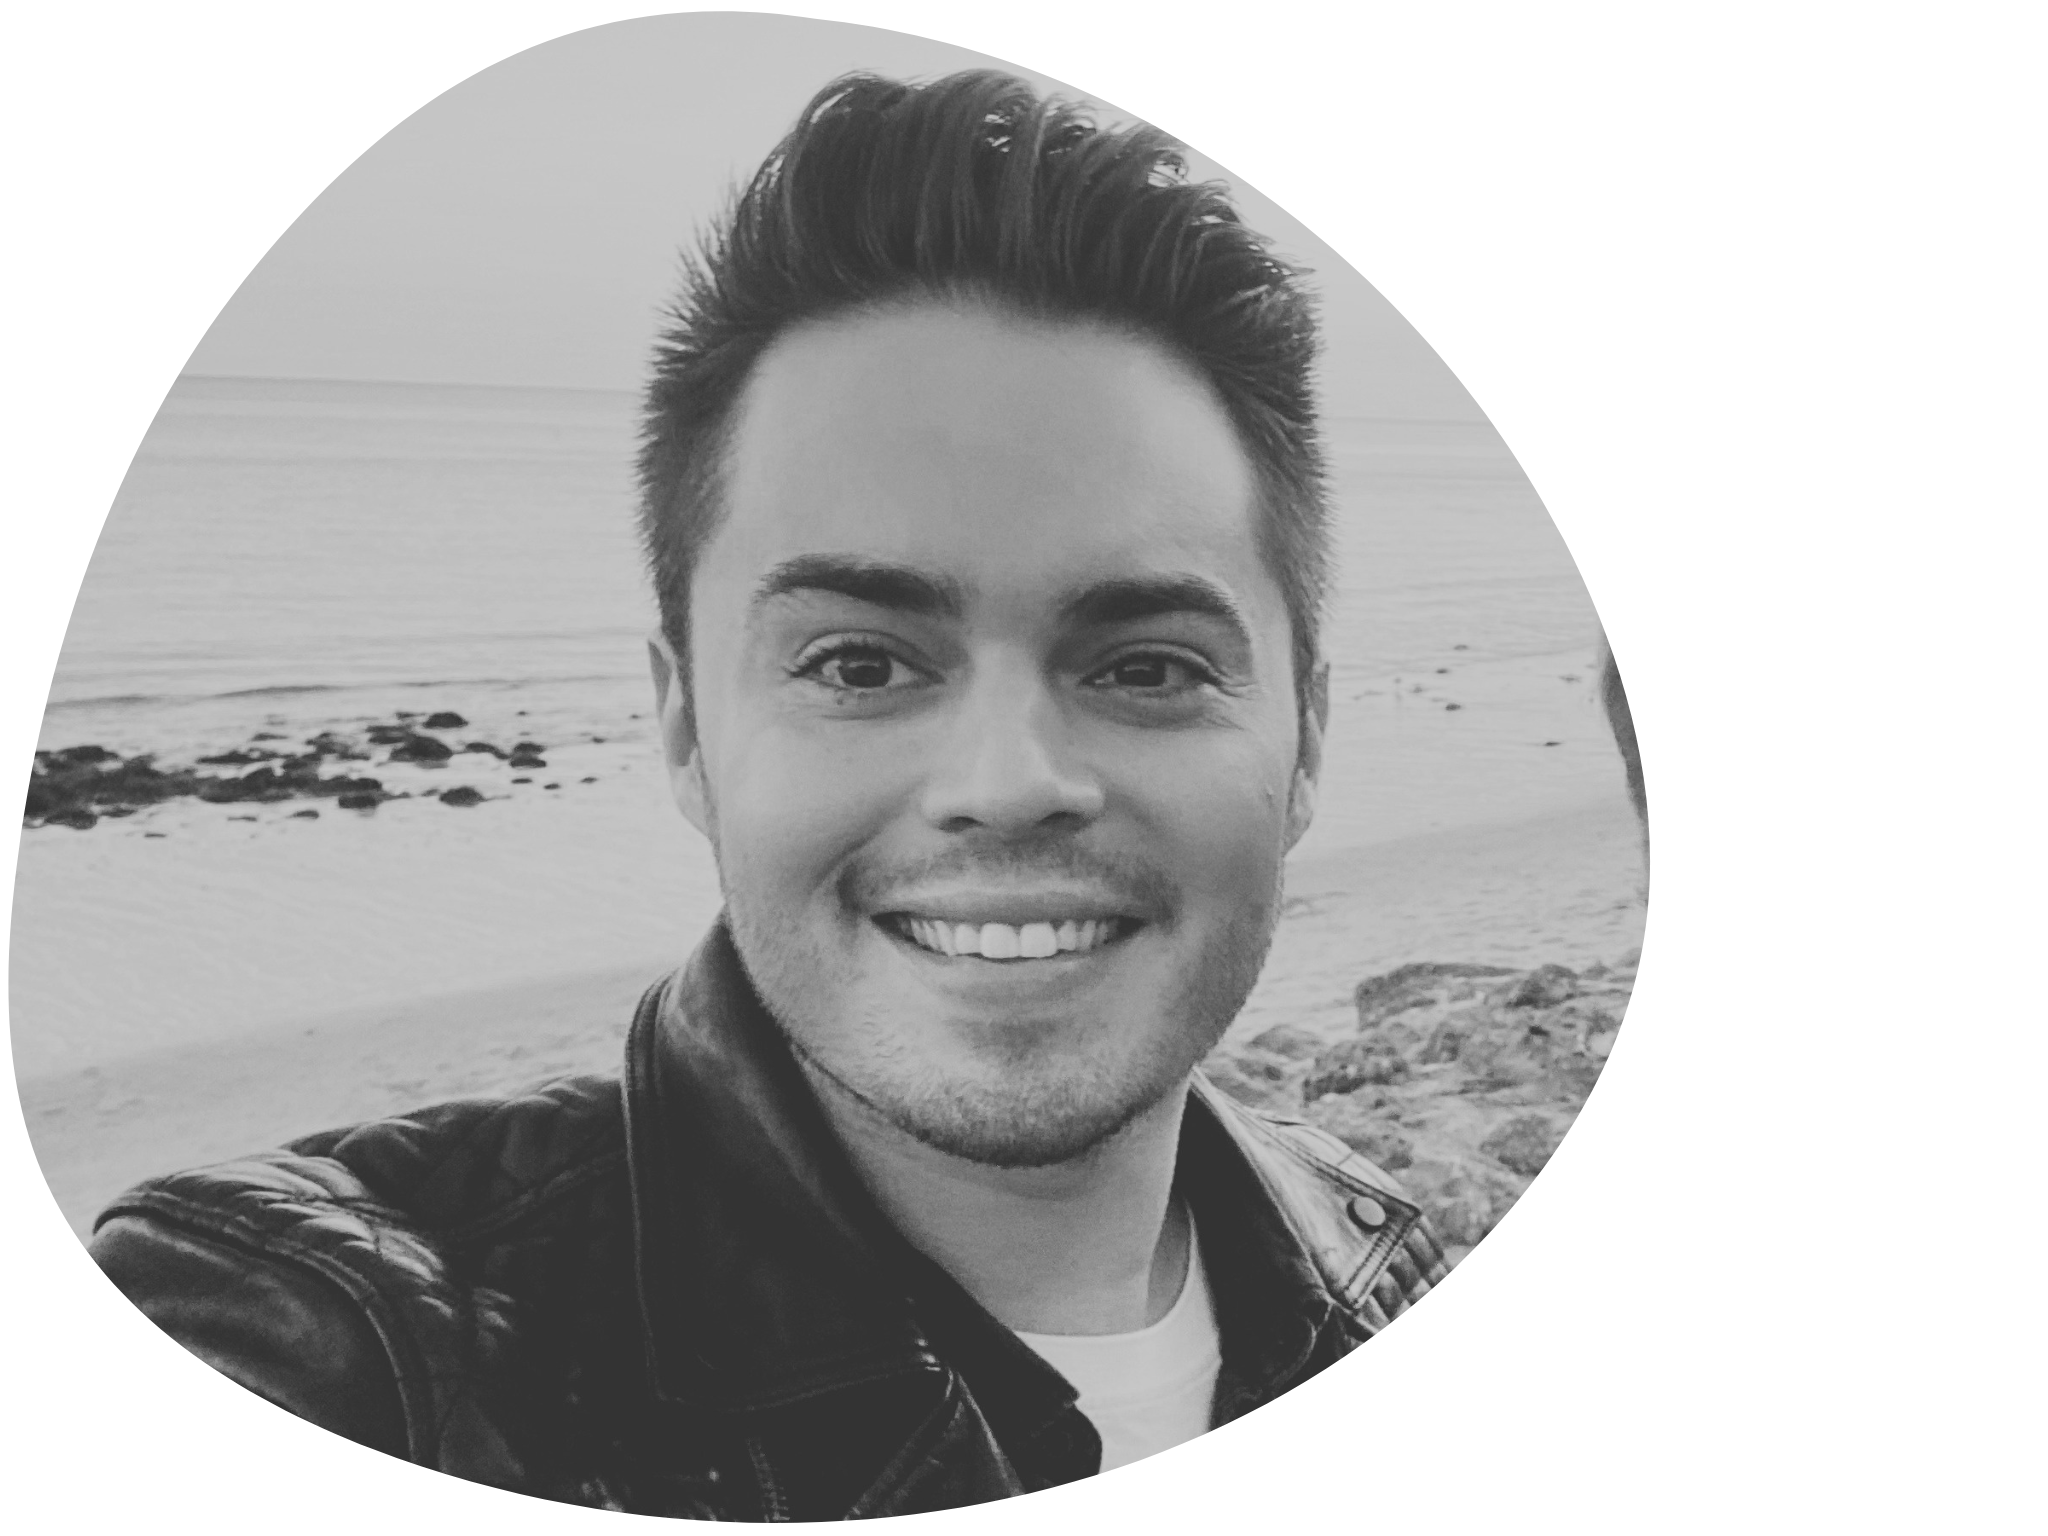
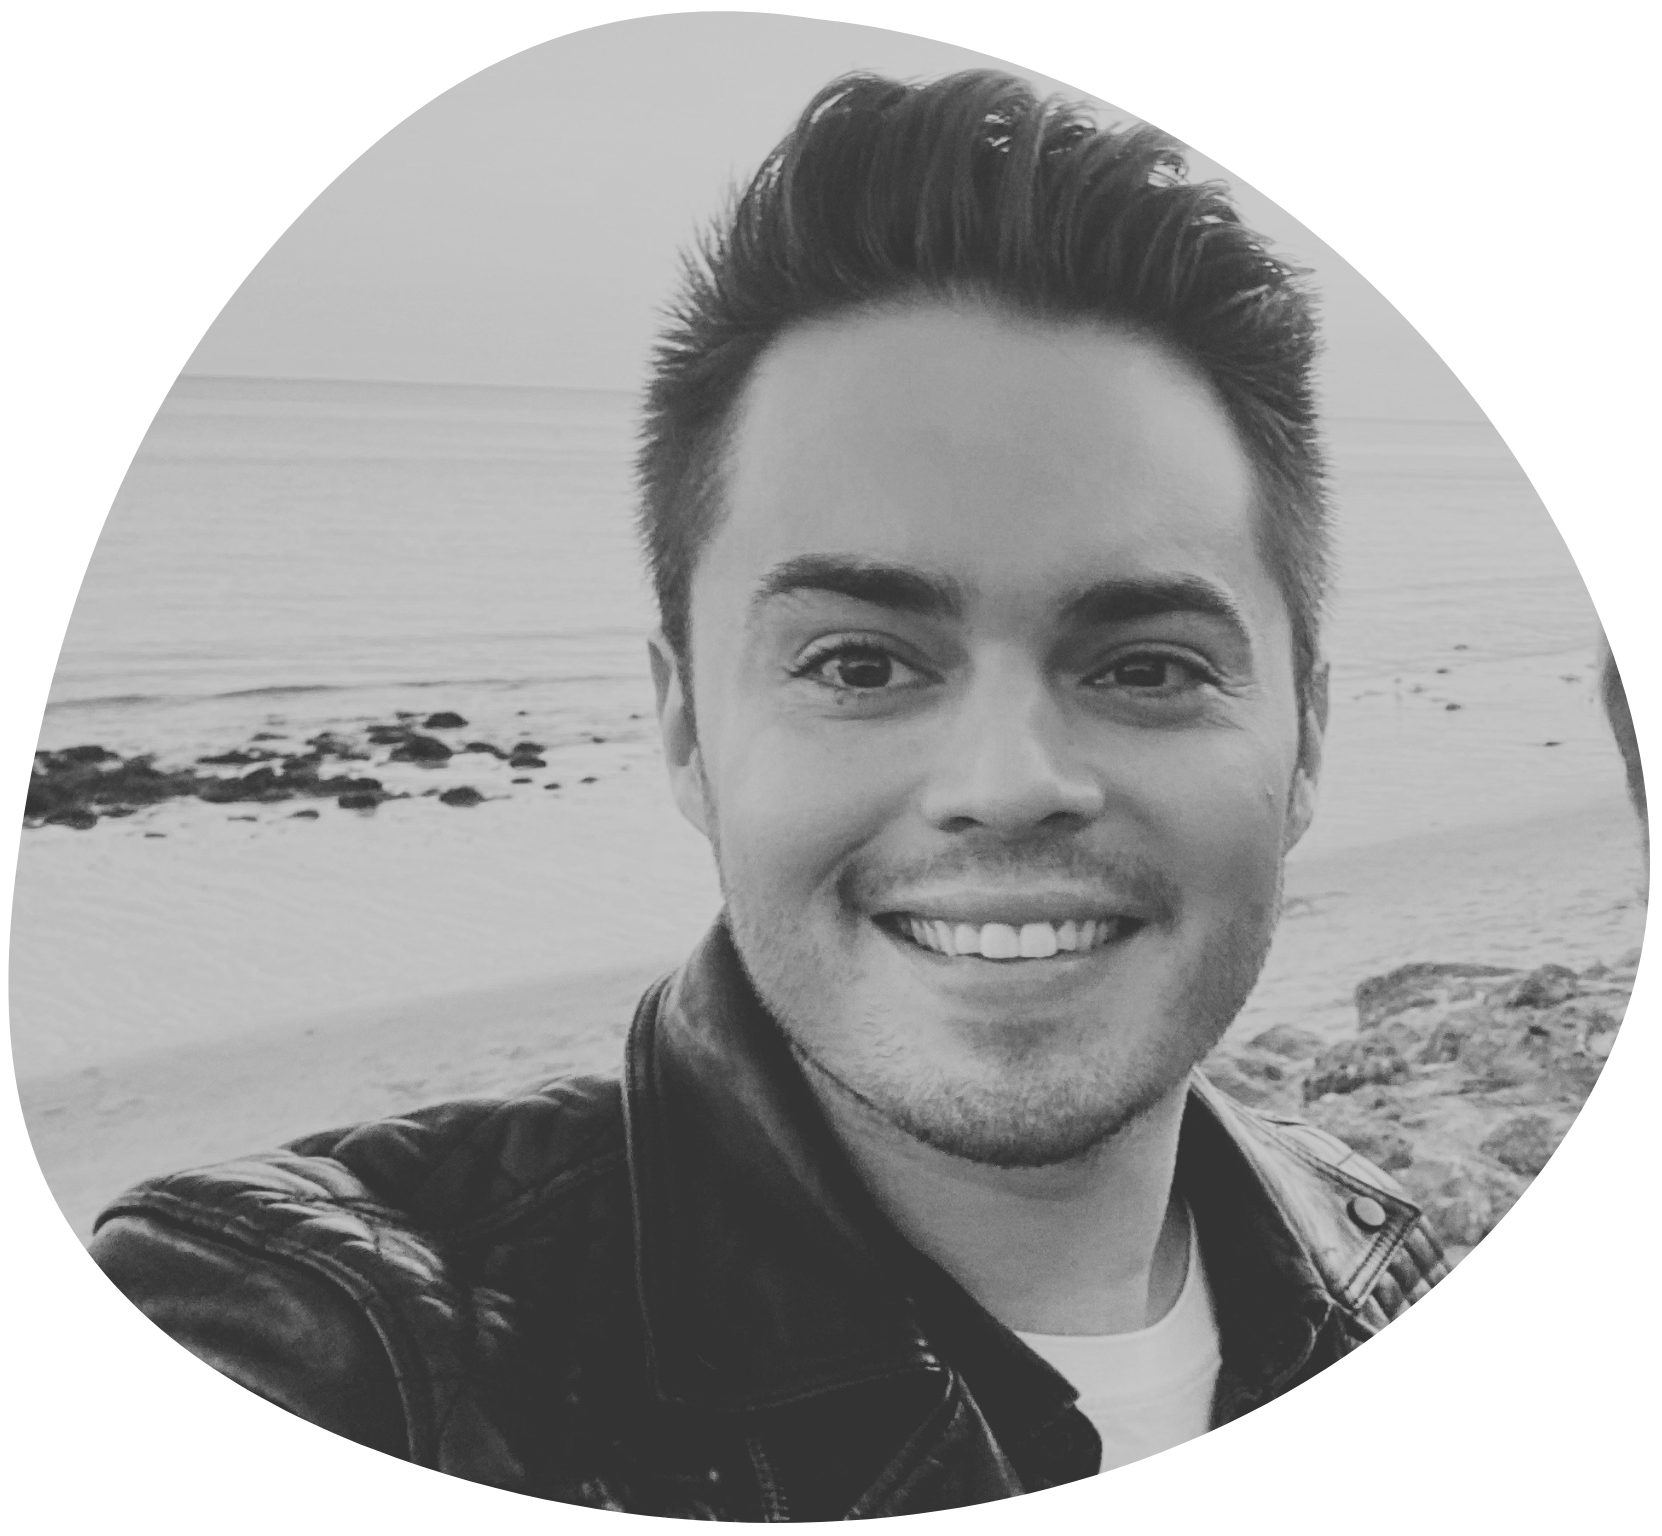
updated home page wording

diff --git a/src/Pages/Home.js b/src/Pages/Home.js
@@ -10,25 +10,28 @@ const Home = () => {
         <h2>TYLER HOFFMAN</h2>
         <h3>SOFTWARE ENGINEER</h3>
         <div className="main-text">
-          Creative software engineer based in <b>West Hollywood</b> <span style={{fontSize:'16pt'}}>☀</span> that found my passion for development when I was just 12 years old.<br /><br />
+          Creative software engineer based in <b>West Hollywood</b> <span style={{fontSize:'16pt'}}>☀</span> who discovered my passion for development at the young age of 12.<br /><br />
+          My success as a freelancer in my early teens solidified my love for problem-solving and self-motivated learning.<br /><br />
+          I am now seeking to <span style={{fontSize:'16pt'}}>🚀</span> launch my career as a software developer and take it to new heights.
+          {/* Creative software engineer based in <b>West Hollywood</b> <span style={{fontSize:'16pt'}}>☀</span> that found my passion for development when I was just 12 years old.<br /><br />
           Becoming a successful freelancer when I was in my early teens revealed my infatuation for problem solving and deep appreciation of self motivated learning.<br /><br />
-          Looking to <span style={{fontSize:'16pt'}}>🚀</span> launch my career as a software developer.
+          Looking to <span style={{fontSize:'16pt'}}>🚀</span> launch my career as a software developer. */}
         </div>
       </div>
     </div>
     <div className="socials">
-      <a href="https://www.github.com/t-hoffman" target="_blank" className="github"><i className="fa-brands fa-github"></i></a>
-      <a href="https://www.linkedin.com/in/tyler-hoffman" target="_blank" className="linked"><i className="fa-brands fa-linkedin"></i></a>
-      <a href="https://www.facebook.com/teehoff/" target="_blank" className="fb"><i className="fa-brands fa-facebook-f"></i></a>
-      <a href="https://www.instagram.com/teehoff/" target="_blank" className="ig"><i className="fa-brands fa-instagram"></i></a>
-      <a href="https://twitter.com/_tylerhoffman" target="_blank" className="twitter"><i className="fa-brands fa-twitter"></i></a>
+      <a href="https://www.github.com/t-hoffman" target="_blank" rel="noreferrer" className="github"><i className="fa-brands fa-github"></i></a>
+      <a href="https://www.linkedin.com/in/tyler-hoffman" target="_blank" rel="noreferrer" className="linked"><i className="fa-brands fa-linkedin"></i></a>
+      <a href="https://www.facebook.com/teehoff/" target="_blank" rel="noreferrer" className="fb"><i className="fa-brands fa-facebook-f"></i></a>
+      <a href="https://www.instagram.com/teehoff/" target="_blank" rel="noreferrer" className="ig"><i className="fa-brands fa-instagram"></i></a>
+      <a href="https://twitter.com/_tylerhoffman" target="_blank" rel="noreferrer" className="twitter"><i className="fa-brands fa-twitter"></i></a>
     </div>
-    <div style={{textAlign:'center',marginTop:'25px'}}>
+    <div className="email-link">
       <a href="mailto:teehoff@icloud.com">teehoff@icloud.com</a>
     </div>
     <div className="construction">
       <div className="construction-box">
-        <span style={{fontSize:'16pt'}}>🚧</span> Website under construction
+        {/* <span style={{fontSize:'16pt'}}>🚧</span>  */}Website under construction
       </div>
     </div>
     </>

diff --git a/src/css/Home.css b/src/css/Home.css
@@ -6,9 +6,10 @@
 
 .main-left {
   width: 50%;
-  background-image: url('../assets/beachcolor.png');
+  background-image: url('../assets/beachbw.png');
   background-size: contain;
   background-repeat: no-repeat;
+  background-position: center;
   opacity: 95%;
 }
 
@@ -67,10 +68,17 @@
   margin-top: 50px;
   background-color: #fff;
   width: fit-content;
-  padding: 15px;
-  border-radius: 50px;
-  border: 1px solid #efefef;
+  padding: 10px;
+  border-radius: 15px;
   text-transform: uppercase;
-  opacity: 60%;
+  opacity: 50%;
   letter-spacing: 0.2em;
+  box-shadow: 0 0 15px rgb(217, 217, 217, .75);
+  font-family: 'Montserrat';
 }
+
+.email-link {
+  text-align: center;
+  margin-top: 25px;
+}
+.email-link a { color: tomato }

diff --git a/src/Components/NavBar.js b/src/Components/NavBar.js
@@ -1,9 +1,8 @@
 import React from 'react'
-import { NavLink, useLocation } from 'react-router-dom'
+import { NavLink } from 'react-router-dom'
 import '../css/NavBar.css'
 
 const NavBar = () => {
-  const path = useLocation();
   const classNameFunc = ({ isActive }) => (isActive ? 'nav-link-active' : '')
 
   return (
